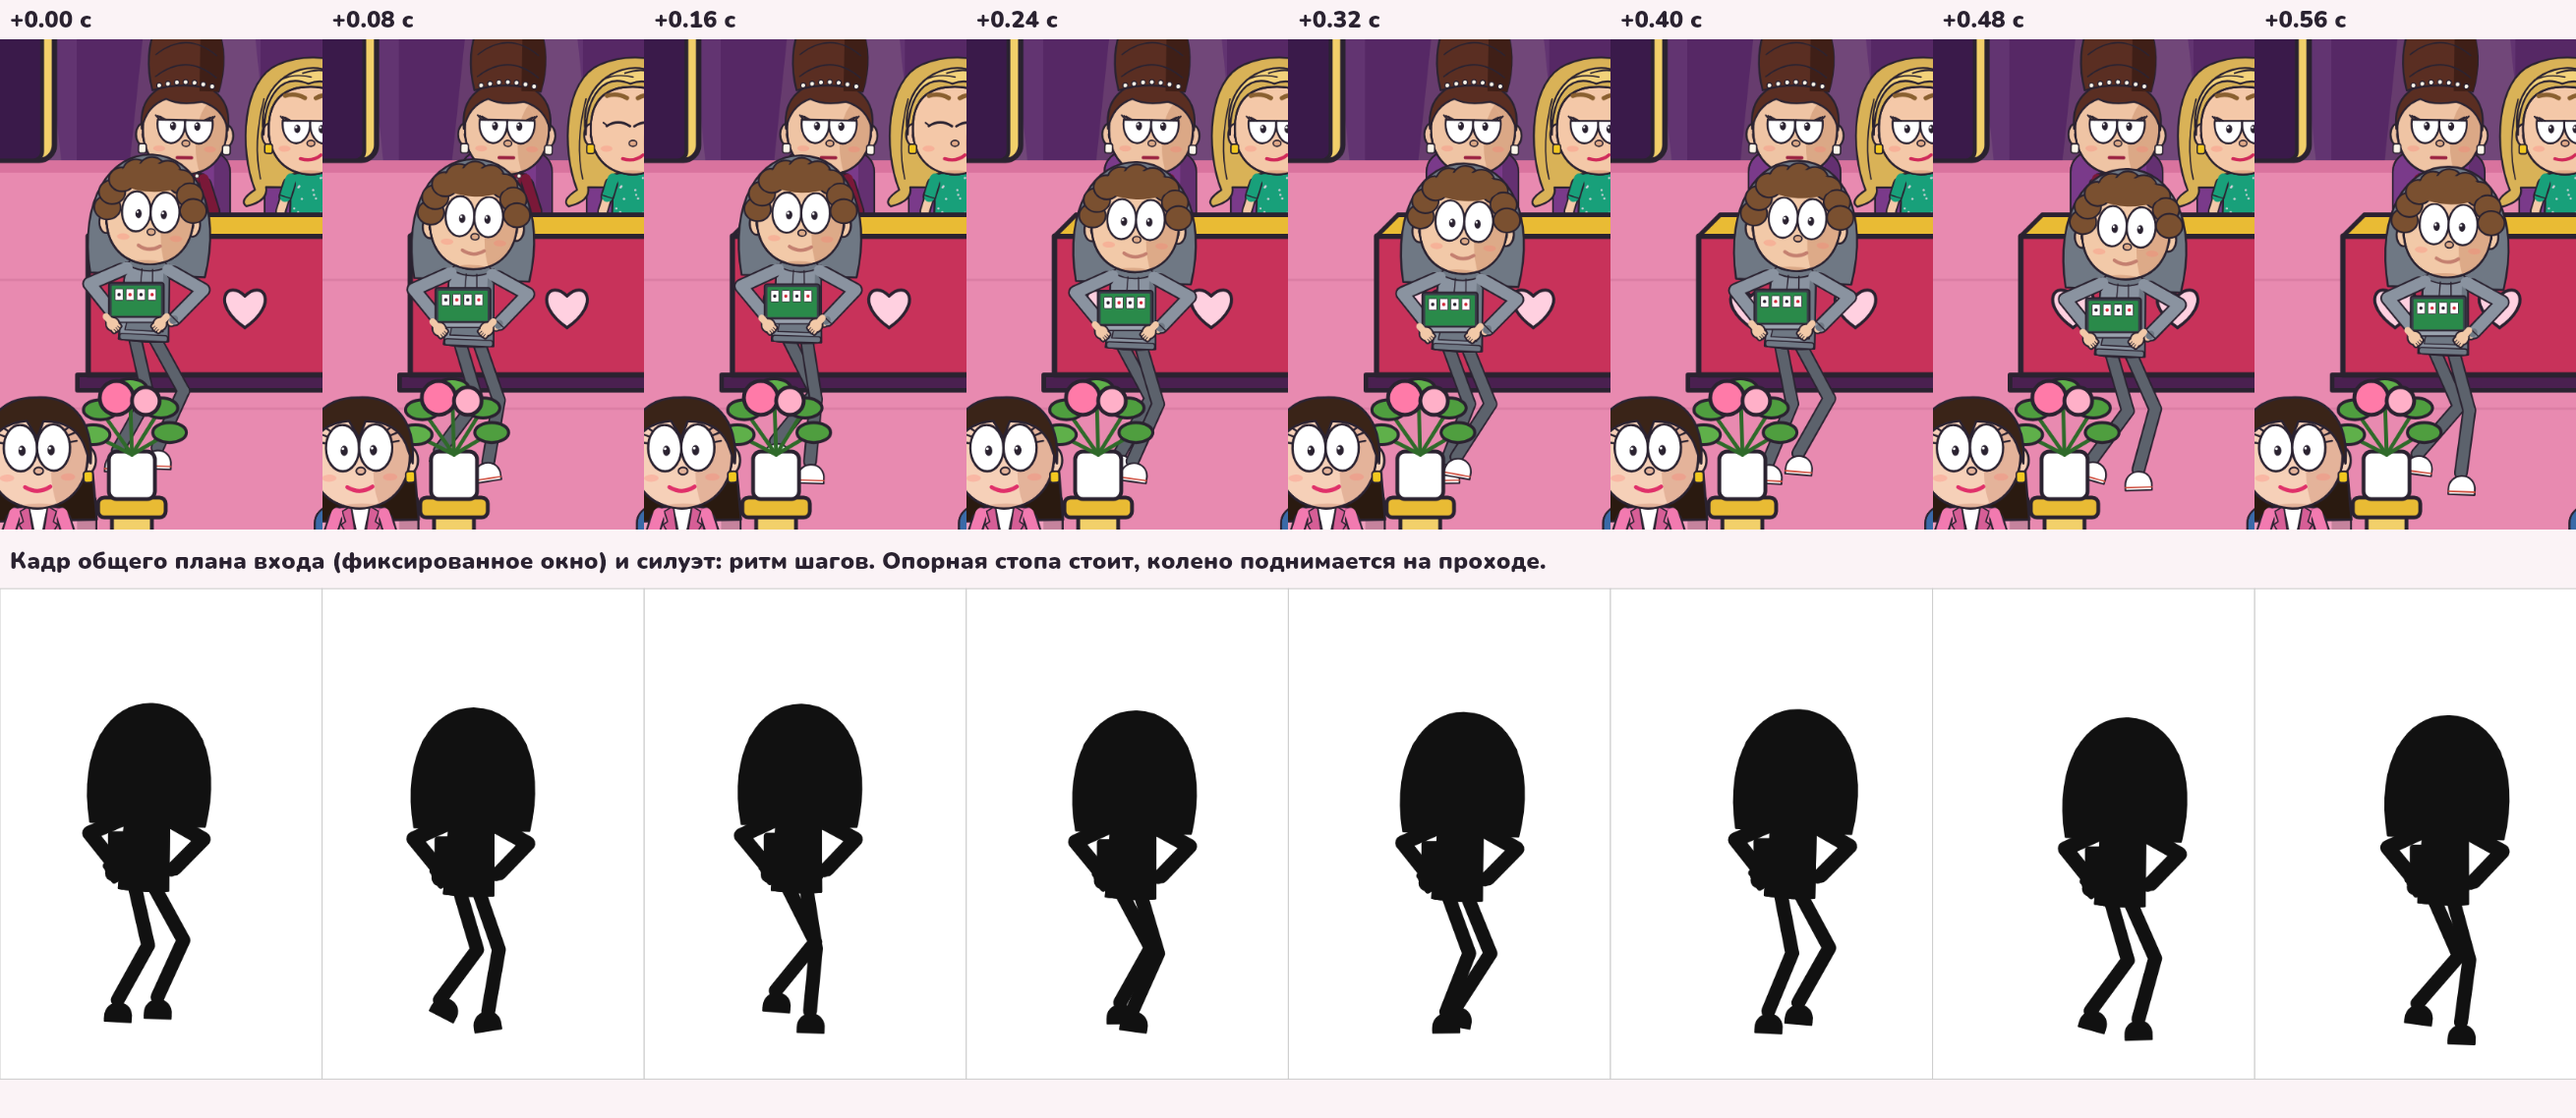
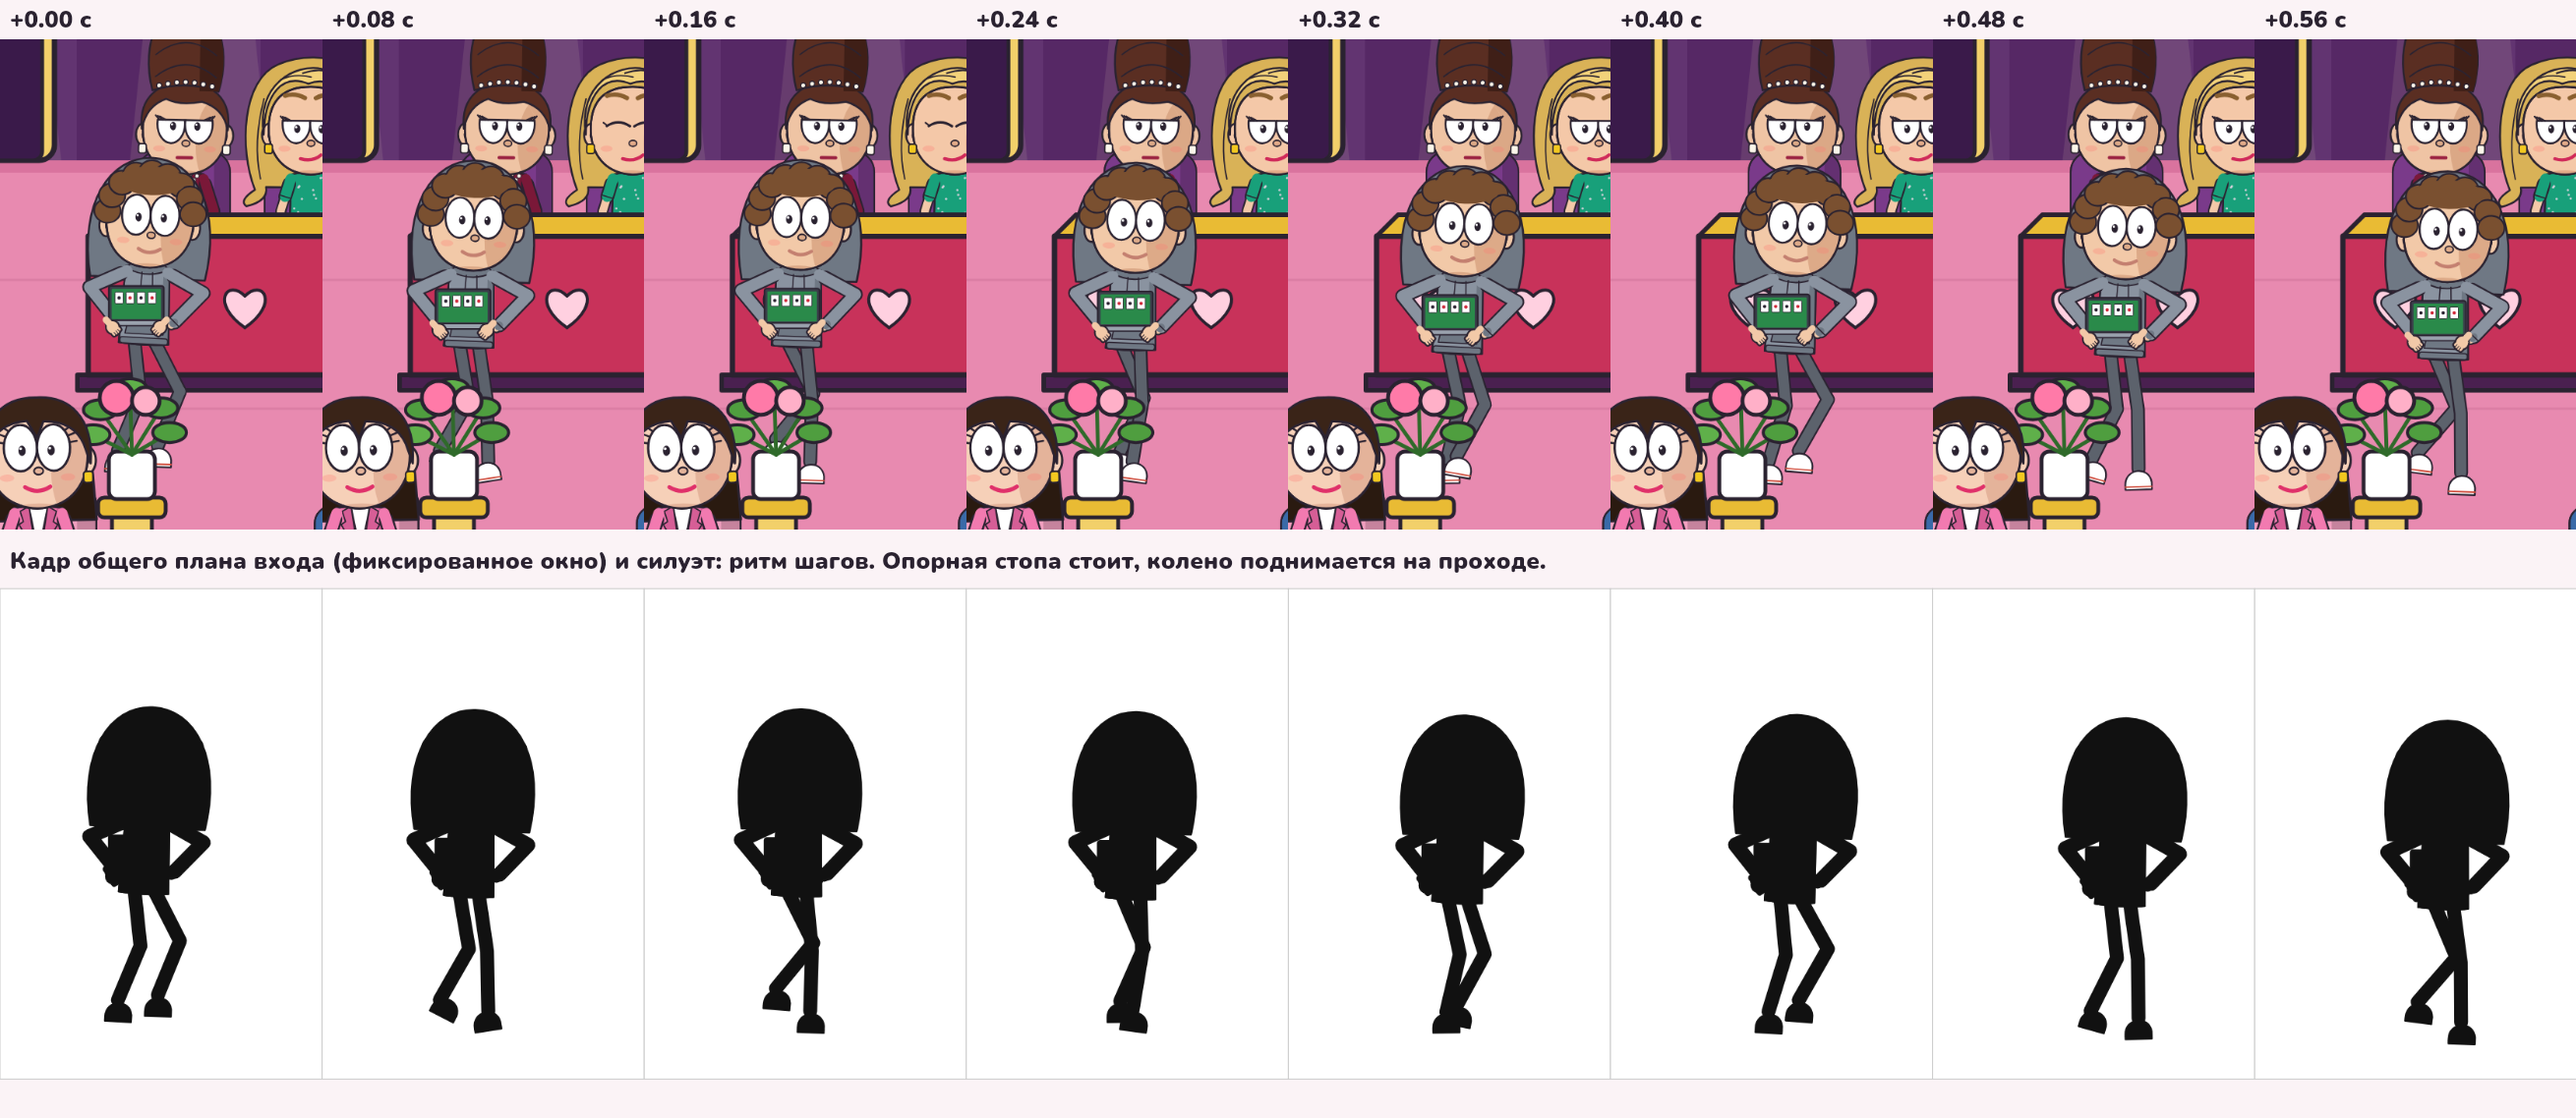
davai_zamuzh: walk v3 — stance leg straight (hip height from full leg reach), flex on down, highest at passing, swing leg bends
Claude-Session: https://claude.ai/code/session_01RM84ZhQNxywyi2ve1hSSaa

diff --git a/speak_in_english/davai_zamuzh/toon.js b/speak_in_english/davai_zamuzh/toon.js
@@ -179,7 +179,7 @@ const POSES = {
 function shoe(c, fx, fy, ang, dir) { g.save(); const piv = ang > 0 ? [fx + dir * 55, fy] : [fx - dir * 45, fy]; g.translate(piv[0], piv[1]); g.rotate(ang * dir); g.translate(-piv[0], -piv[1]);
   const b0 = fx - dir * 50, b1 = fx + dir * 60; P(); g.moveTo(b0, fy - 20); g.bezierCurveTo(b0, fy - 90, fx + dir * 50, fy - 100, b1, fy - 30); g.lineTo(b1, fy); g.lineTo(b0, fy); g.closePath(); fs(c.shoe || '#ffffff');
   line([[b0, fy - 12], [b1, fy - 12]], 6, c.sole || '#e05a2a'); g.restore(); }
-function legs(st, c) { const dir = st.walkDir || 0; for (const s of [-1, 1]) { const F = st.walk ? st.walk[s] : [s * 46, 0, 0], hip = [s * 40, -580], ank = [F[0], F[1] - 90], L = 262;
+function legs(st, c) { const dir = st.walkDir || 0; for (const s of [-1, 1]) { const F = st.walk ? st.walk[s] : [s * 46, 0, 0], hip = [s * 40, -580], ank = [F[0], F[1] - 90], L = 245.5;   // 2L = standing hip-to-ankle: a leg at full reach is straight
     const dx = ank[0] - hip[0], dy = ank[1] - hip[1], dd = Math.hypot(dx, dy) || 1, d = Math.min(dd, 2 * L - 1), h = Math.sqrt(Math.max(0, L * L - (d / 2) * (d / 2)));
     const mid = [hip[0] + dx / 2, hip[1] + dy / 2], n = [-dy / dd, dx / dd]; let sg = dir ? (n[0] * dir >= 0 ? 1 : -1) : (n[0] * s >= 0 ? 1 : -1);
     const knee = [mid[0] + n[0] * h * sg, mid[1] + n[1] * h * sg]; limb([hip, knee, ank], 44, c.legs || c.bottom); if (h > 20) ell(knee[0], knee[1], 23, 23, c.legs || c.bottom, 0);
@@ -200,8 +200,12 @@ function walkPose(t, t0, dur, A, B, scA, scB, stride = 90) {
       const u0 = kf - kl, u1 = stanceEnd - kf; let ang = 0; if (kl >= 1 && u0 < .25) ang = -.3 * (1 - u0 / .25); if (kl < N && u1 < .35 && kn <= N + 1 && kf > 0) ang = .45 * (1 - u1 / .35); Fw[s] = [a[0], a[1], 0, ang, a[2]]; }
     else { const e = Math.min(1, (kf - lift) / (Math.min(kn, N) - lift)), ee = e * e * (3 - 2 * e), b = land(Math.min(kn, N), s); Fw[s] = [a[0] + (b[0] - a[0]) * ee, a[1] + (b[1] - a[1]) * ee, Math.sin(Math.PI * e), .15 - .25 * e, a[2]]; } }
   const bx = (Fw[-1][0] + Fw[1][0]) / 2, by = (Fw[-1][1] + Fw[1][1]) / 2, sc = (Fw[-1][4] + Fw[1][4]) / 2, moving = t > t0 && t < t0 + dur, ph = kf - Math.floor(kf);
-  const bob = moving ? -26 * Math.pow(Math.sin(Math.PI * Math.max(0, ph - .1) / .9), 2) + 6 : 0;   // lowest just after contact (down), highest at passing (~2 % of height)
-  const feet = {}; for (const s of [-1, 1]) feet[s] = [(Fw[s][0] - bx) / sc + s * 60, (Fw[s][1] - by) / sc + s * 8 - Fw[s][2] * 60 - bob, Fw[s][3]];
+  // hip height from the legs: every planted foot must be reachable with a STRAIGHT leg (2L = 491) -> body lowest when both feet are planted and spread
+  // (contact), highest when the stance leg is vertical (passing). Down: the stance leg flexes a little right after contact (absorbs the weight).
+  const rel = {}; for (const s of [-1, 1]) rel[s] = (Fw[s][0] - bx) / sc + s * 60;
+  let D = 0; for (const s of [-1, 1]) if (Fw[s][2] < .02) { const dx = rel[s] - s * 40; D = Math.max(D, 491 - Math.sqrt(Math.max(0, 491 * 491 - dx * dx))); }
+  const flex = moving ? 14 * Math.max(0, Math.sin(Math.PI * Math.min(1, ph / .45))) * (ph < .45 ? 1 : 0) : 0, bob = moving ? D + flex : 0;
+  const feet = {}; for (const s of [-1, 1]) feet[s] = [rel[s], (Fw[s][1] - by) / sc + s * 8 - Fw[s][2] * 70 - bob, Fw[s][3]];
   const legPh = s => Math.cos(Math.PI * (kf - (s > 0 ? 1 : 0)));   // +1 when that leg is forward
   return {x: bx, y: by, s: sc, walk: feet, walkDir: dir, bob, lean: moving ? dir * (.045 + .012 * Math.sin(Math.PI * kf)) : 0,
     swing: {'-1': moving ? -legPh(1) * dir : 0, '1': moving ? -legPh(-1) * dir : 0}}; }   // each arm swings forward with the opposite leg
